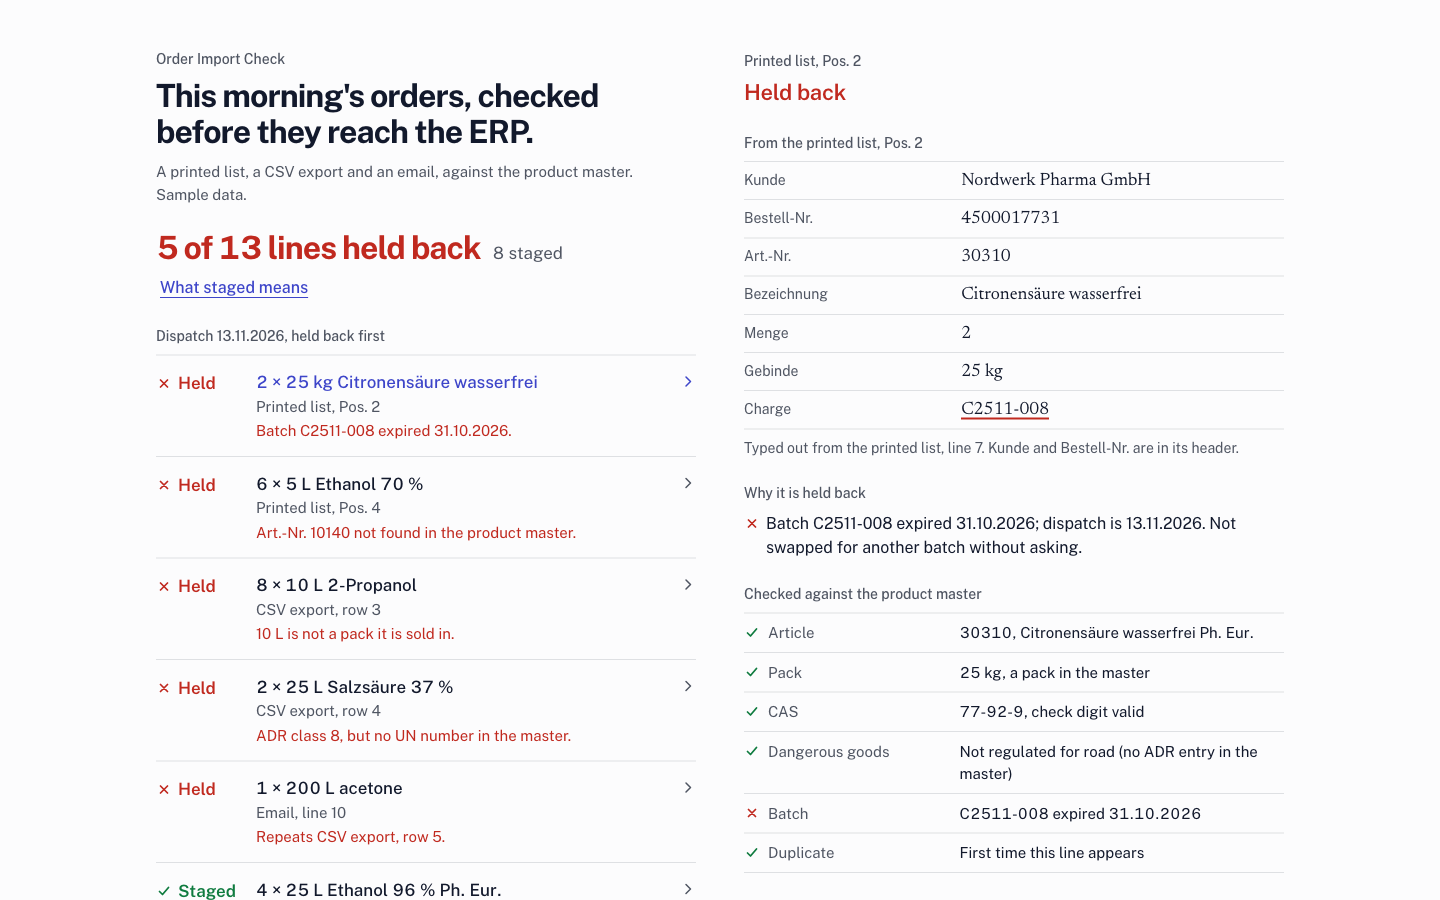
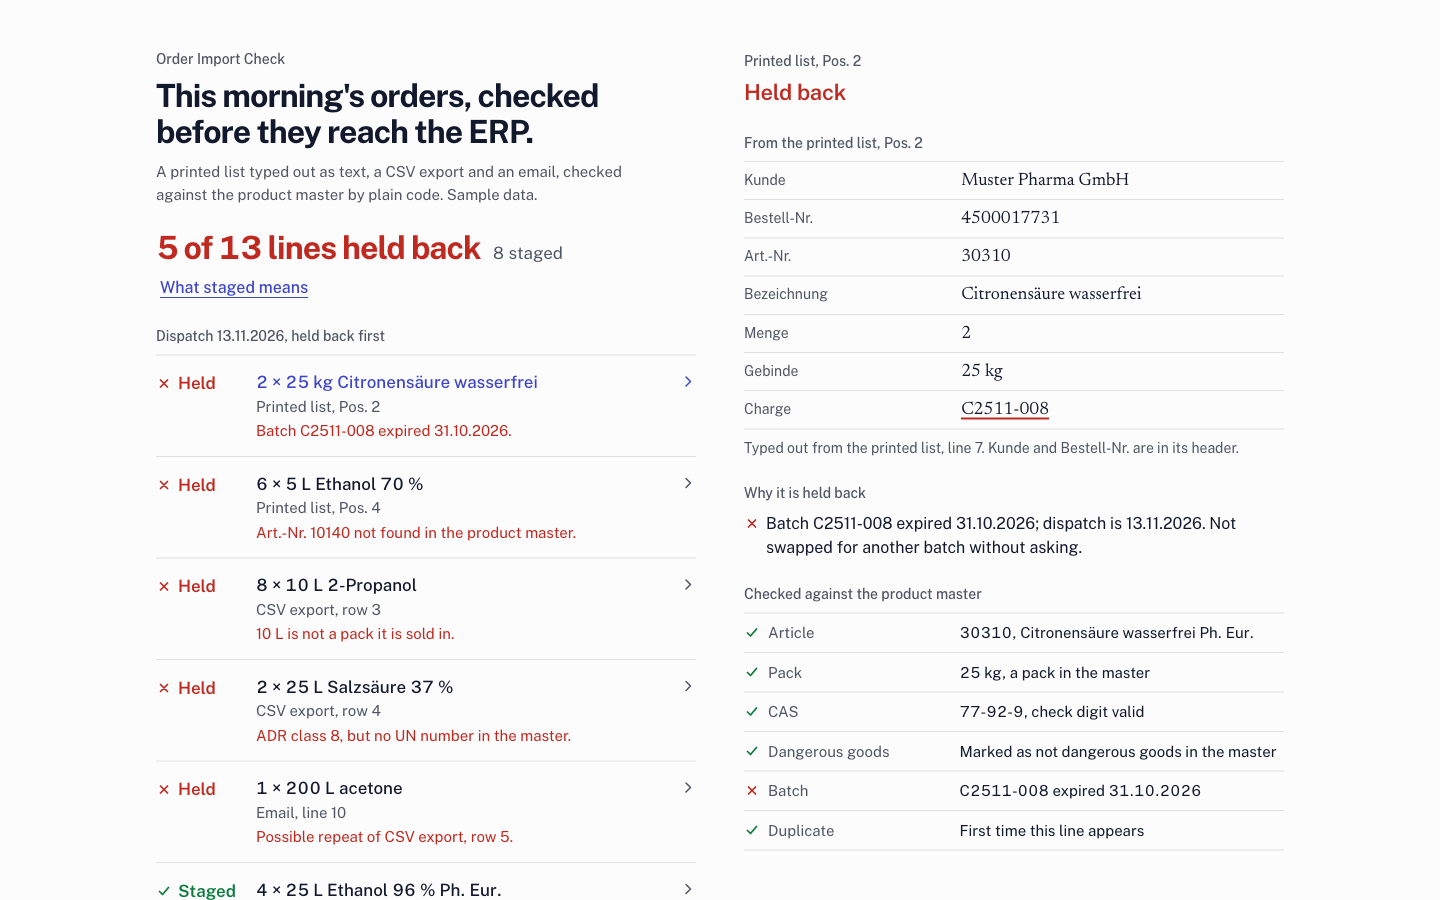
Hold missing dangerous goods status, honest ADR and FEFO notes, possible-repeat wording, rows closed on phone

diff --git a/index.html b/index.html
@@ -24,13 +24,13 @@
     <header class="top">
       <p class="mark">Order Import Check</p>
       <h1>This morning's orders, checked before they reach the ERP.</h1>
-      <p class="sub">A printed list, a CSV export and an email, against the product master. Sample data.</p>
+      <p class="sub">A printed list typed out as text, a CSV export and an email, checked against the product master by plain code. Sample data.</p>
     </header>
 
     <section class="reading" aria-labelledby="summary">
       <p class="summary" id="summary" role="status"><span class="sum-main">Checking</span></p>
       <button type="button" class="btn text why-btn" id="why-btn" aria-expanded="false" aria-controls="why">What staged means</button>
-      <p class="why-text" id="why" hidden>A line is staged when its article number is in the product master, the pack is one it is sold in, the CAS number checks out, a dangerous good has its UN number, class and packing group, the batch is in date on the dispatch day, and it is not a repeat. Anything else is held back with the reason. Nothing is guessed.</p>
+      <p class="why-text" id="why" hidden>A line is staged when its article number is in the product master, the pack is one it is sold in, the CAS number checks out, the master either carries the UN number, class and packing group or marks the article as not dangerous goods, the batch is in date on the dispatch day, and it is not a possible repeat. Anything else is held back with the reason. Nothing is guessed.</p>
       <div id="groups" class="groups"></div>
     </section>
 
@@ -72,8 +72,8 @@
     <button type="button" class="btn text terms-btn" id="terms-btn" aria-expanded="false" aria-controls="terms">Terms and sources</button>
     <div class="terms" id="terms" hidden>
       <p><b>CAS number.</b> The registry number for a substance. The last digit is a check digit; this page tests it the way <a href="https://www.cas.org/training/documentation/chemical-substances/checkdig">CAS describes</a>.</p>
-      <p><b>UN number, ADR class, packing group.</b> What a dangerous good needs on its road transport document under ADR 5.4.1.1.1, with values from ADR Table A (<a href="https://unece.org/transport/dangerous-goods">UNECE, ADR 2025</a>; plain summary from the <a href="https://www.hse.gov.uk/cdg/manual/consignment.htm">UK HSE</a>).</p>
-      <p><b>First expiry, first out (FEFO).</b> Stock leaves in order of expiry; expired stock leaves saleable stock. EU Good Distribution Practice guidelines, <a href="https://eur-lex.europa.eu/legal-content/EN/TXT/?uri=CELEX:52013XC1123(01)">2013/C 343/01</a>, section 5.5.</p>
+      <p><b>UN number, class, packing group.</b> Three of the things ADR 5.4.1.1.1 puts on the road transport document for a dangerous good. It also asks for the proper shipping name and, where one is assigned, the tunnel restriction code, as in "UN 1789 CHLORWASSERSTOFFSÄURE, 8, II, (E)". This page checks the three only. Sample values match the ADR 2025 entries in <a href="https://www.dgg.bam.de/dgginfo/search?lang=en">BAM's dangerous goods database</a>. The rule is in <a href="https://unece.org/transport/dangerous-goods">ADR 2025 (UNECE)</a>; the <a href="https://www.hse.gov.uk/cdg/manual/consignment.htm">UK HSE</a> lists the items in plain words.</p>
+      <p><b>First expiry, first out (FEFO).</b> The batch that expires soonest leaves first. EU Good Distribution Practice asks for it for medicines (<a href="https://eur-lex.europa.eu/legal-content/EN/TXT/?uri=CELEX:52013XC1123(01)">2013/C 343/01</a>, section 5.5) and for active substances (<a href="https://eur-lex.europa.eu/legal-content/EN/TXT/?uri=CELEX:52015XC0321(01)">2015/C 95/01</a>, chapter 6). Both go further than this page: stock near its expiry comes out of saleable stock, and what is picked needs an appropriate remaining shelf life. This page only checks that a batch is in date on the dispatch day.</p>
       <p><b>Art.-Nr., Gebinde, Charge.</b> German order lists: article number, pack, batch.</p>
     </div>
     <p>Built by Arnold Ikpemosi Adeyemi. Made-up customers, orders and batches. Not regulatory advice.</p>

diff --git a/samples.js b/samples.js
@@ -1,13 +1,13 @@
 // Sample data for one morning at a made-up fine chemicals distributor in Germany.
 // Customers, orders, batches and expiry dates are invented for this demo.
 // CAS numbers, UN numbers and ADR classes are the public values for these substances;
-// packing groups are the usual ones for these grades. Check your own SDS, section 14.
+// packing groups match the ADR 2025 entries for these strengths. Check your own SDS, section 14.
 
 export const dispatchDate = "2026-11-13";
 
 // A printed order list, typed out line by line as it reads on paper.
 export const printedList = `AUFTRAGSLISTE                          Druck 12.11.2026 07:12
-Kunde: Nordwerk Pharma GmbH            Bestell-Nr.: 4500017731
+Kunde: Muster Pharma GmbH              Bestell-Nr.: 4500017731
 Liefertermin: 13.11.2026
 
 Pos  Art.-Nr.  Bezeichnung                  Menge  Gebinde  Charge
@@ -42,7 +42,8 @@ Thanks and best regards
 Jana Weber
 Purchasing`;
 
-// The product master (Artikelstamm). dg is null for goods not regulated for road transport.
+// The product master (Artikelstamm). dg is false where the master marks the article as not dangerous goods.
+// A record with no dg entry at all is held: missing is not the same as safe.
 export const master = [
   {
     article: "10110", name: "Ethanol 96 % Ph. Eur.", cas: "64-17-5",
@@ -78,31 +79,31 @@ export const master = [
   {
     article: "30310", name: "Citronensäure wasserfrei Ph. Eur.", cas: "77-92-9",
     packs: [{ size: 1, unit: "kg" }, { size: 25, unit: "kg" }],
-    dg: null,
+    dg: false,
     batches: [{ batch: "C2511-008", expiry: "2026-10-31" }, { batch: "C2604-021", expiry: "2029-04-30" }],
   },
   {
     article: "30320", name: "Glycerin 99,5 % Ph. Eur.", cas: "56-81-5",
     packs: [{ size: 1, unit: "kg" }, { size: 25, unit: "kg" }, { size: 250, unit: "kg" }],
-    dg: null,
+    dg: false,
     batches: [{ batch: "G2602-019", expiry: "2027-02-28" }, { batch: "G2608-066", expiry: "2028-08-31" }],
   },
   {
     article: "30330", name: "Natriumchlorid Ph. Eur.", cas: "7647-14-5",
     packs: [{ size: 1, unit: "kg" }, { size: 25, unit: "kg" }],
-    dg: null,
+    dg: false,
     batches: [{ batch: "K2601-003", expiry: "2029-01-31" }],
   },
   {
     article: "40410", name: "Cellulose mikrokristallin Ph. Eur.", cas: "9004-34-6",
     packs: [{ size: 20, unit: "kg" }],
-    dg: null,
+    dg: false,
     batches: [{ batch: "M2512-090", expiry: "2027-12-31" }, { batch: "M2606-015", expiry: "2028-06-30" }],
   },
   {
     article: "40420", name: "Magnesiumstearat Ph. Eur.", cas: "557-04-0",
     packs: [{ size: 10, unit: "kg" }, { size: 25, unit: "kg" }],
-    dg: null,
+    dg: false,
     batches: [{ batch: "T2603-027", expiry: "2027-03-31" }],
   },
 ];

diff --git a/check.js b/check.js
@@ -93,7 +93,8 @@ export function checkLine(line, master, { dispatchDate }) {
     }
   }
 
-  // 5. Dangerous goods need UN number, class and packing group for the transport document (ADR 5.4.1.1.1).
+  // 5. Dangerous goods. The master must say one of two things: the ADR entry, or that the article is not
+  // dangerous goods (dg: false). A record that says neither is held. Missing is not the same as safe.
   if (item) {
     if (item.dg) {
       const miss = [];
@@ -107,8 +108,11 @@ export function checkLine(line, master, { dispatchDate }) {
       } else {
         checks.push({ key: "dg", state: "pass", label: "Dangerous goods", text: `UN ${item.dg.un}, class ${item.dg.adrClass}, PG ${item.dg.packingGroup}` });
       }
+    } else if (item.dg === false) {
+      checks.push({ key: "dg", state: "pass", label: "Dangerous goods", text: "Marked as not dangerous goods in the master" });
     } else {
-      checks.push({ key: "dg", state: "pass", label: "Dangerous goods", text: "Not regulated for road (no ADR entry in the master)" });
+      hold("dg_unknown", `The product master does not say whether this article is dangerous goods. Not assumed safe.`, null);
+      checks.push({ key: "dg", state: "fail", label: "Dangerous goods", text: `Status ${NOT_FOUND} in the product master` });
     }
   }
 
@@ -177,10 +181,10 @@ export function checkMorning(morning, master, { dispatchDate }) {
     if (first) {
       r.reasons.push({
         code: "duplicate",
-        text: `Same PO, article, quantity and pack as ${SOURCES[first.source]}, ${first.loc}. Held so it is not imported twice.`,
+        text: `Same PO, article, quantity and pack as ${SOURCES[first.source]}, ${first.loc}. It could be a repeat or a second order. Held for a person to say which.`,
         mark: "article",
       });
-      r.checks.push({ key: "dup", state: "fail", label: "Duplicate", text: `Repeats ${SOURCES[first.source]}, ${first.loc}` });
+      r.checks.push({ key: "dup", state: "fail", label: "Duplicate", text: `Same as ${SOURCES[first.source]}, ${first.loc}` });
       r.duplicateOf = first.id;
     } else {
       seen.set(key, line);

diff --git a/app.js b/app.js
@@ -228,7 +228,7 @@ function shortReason(r) {
     }
     case "duplicate": {
       const first = state.results.find((y) => y.line.id === r.duplicateOf)?.line;
-      return first ? `Repeats ${SOURCES[first.source]}, ${first.loc.split(",")[0].toLowerCase()}.` : "Repeats an earlier line.";
+      return first ? `Possible repeat of ${SOURCES[first.source]}, ${first.loc.split(",")[0].toLowerCase()}.` : "Possible repeat of an earlier line.";
     }
     default: return x.text;
   }
@@ -345,7 +345,7 @@ function render({ fresh = false, focusId = null } = {}) {
 
   let li = rows.children[0];
   if (focusId) li = [...rows.children].find((x) => x._entry.id === focusId) || li;
-  if (li) {
+  if (li && (wide.matches || focusId)) {
     show(li._entry, Boolean(focusId));
     if (focusId) li.scrollIntoView({ block: "start", behavior: calm() ? "auto" : "smooth" });
   }

diff --git a/check.test.js b/check.test.js
@@ -109,6 +109,16 @@ test("filling in the UN number lets the acid through", () => {
   assert.deepEqual(summarize(results), { total: 13, held: 4, staged: 9 });
 });
 
+test("an article whose dangerous goods status is missing is held, not assumed safe", () => {
+  const master = clone(S.master);
+  delete master.find((m) => m.article === "20220").dg;
+  const { results } = run({ master });
+  const r = results.find((x) => x.line.id === "csv-4");
+  assert.equal(r.status, "held");
+  assert.deepEqual(r.reasons.map((x) => x.code), ["dg_unknown"]);
+  assert.equal(results.find((x) => x.line.id === "printed-3").status, "staged"); // dg: false still passes
+});
+
 test("a CAS number on the order that disagrees with the master is held", () => {
   const csv = S.csvExport.replace("67-64-1", "67-64-2");
   const { results } = run({ csvExport: csv });

diff --git a/README.md b/README.md
@@ -11,11 +11,11 @@ A line is staged only when all of these hold:
 1. **The article number is in the product master.** It is never matched by name. "Ethanol 70 %" with an unknown article number stays unknown.
 2. **The pack is one the article is sold in.** 10 L of an article sold in 1, 5, 25 and 200 L is held. Nobody turns it into something else.
 3. **The CAS number checks out.** The master's CAS number passes its check digit, and a CAS number on the order matches the master.
-4. **A dangerous good has its transport fields.** UN number, ADR class and packing group must be in the master, because the road transport document needs them.
+4. **The dangerous goods status is settled.** The master either carries the UN number, ADR class and packing group, or marks the article as not dangerous goods. A record that says neither is held. Missing is not the same as safe.
 5. **The batch is in date on the dispatch day.** A batch the customer asked for must exist and not be expired. It is not swapped for another batch without asking. With no batch requested, the page proposes the in-date batch that expires first.
-6. **It is not a repeat.** Same customer, purchase order, article, quantity and pack as an earlier line, for example a line that is in the CSV and again in the email.
+6. **It is not a possible repeat.** A line with the same customer, purchase order, article, quantity and pack as an earlier one is held, for example a line in the CSV and again in the email. The code cannot tell a repeat from a second order, so a person decides.
 
-The five held in the sample: an expired requested batch, an unknown article number, a pack size not sold, a hazardous acid with no UN number in the master, and a repeated line.
+The five held in the sample: an expired requested batch, an unknown article number, a pack size not sold, a hazardous acid with no UN number in the master, and a possible repeat.
 
 ## Every field has a source
 
@@ -28,8 +28,8 @@ Press "Fill in UN 1789 for me" to complete the acid's master record and watch th
 ## Terms
 
 - **CAS number**: registry number of a substance. The last digit is a check digit, tested as described by CAS: https://www.cas.org/training/documentation/chemical-substances/checkdig
-- **UN number, ADR class, packing group**: particulars a dangerous goods transport document needs under ADR 5.4.1.1.1, with values from ADR Table A. UNECE: https://unece.org/transport/dangerous-goods. Plain summary from the UK HSE: https://www.hse.gov.uk/cdg/manual/consignment.htm
-- **First expiry, first out (FEFO)**: stock leaves in order of expiry, and expired stock is removed from saleable stock. EU Good Distribution Practice guidelines 2013/C 343/01, section 5.5: https://eur-lex.europa.eu/legal-content/EN/TXT/?uri=CELEX:52013XC1123(01)
+- **UN number, ADR class, packing group**: three of the particulars ADR 5.4.1.1.1 requires on the transport document for a dangerous good. It also requires the proper shipping name and, where assigned, the tunnel restriction code, for example `UN 1789 CHLORWASSERSTOFFSÄURE, 8, II, (E)`. This demo checks the three only. The sample values match the ADR 2025 entries in BAM's Datenbank GEFAHRGUT, checked on 13 Nov 2026: https://www.dgg.bam.de/dgginfo/search?lang=en. The rule: ADR 2025, UNECE, https://unece.org/transport/dangerous-goods. The items in plain words, UK HSE: https://www.hse.gov.uk/cdg/manual/consignment.htm
+- **First expiry, first out (FEFO)**: the batch that expires soonest leaves first. EU Good Distribution Practice asks for it for medicines (2013/C 343/01, section 5.5: https://eur-lex.europa.eu/legal-content/EN/TXT/?uri=CELEX:52013XC1123(01)) and for active substances (2015/C 95/01, chapter 6: https://eur-lex.europa.eu/legal-content/EN/TXT/?uri=CELEX:52015XC0321(01)). Both go further than this demo. Section 5.5 takes stock that is near its expiry out of saleable stock, and section 5.7 expects an appropriate remaining shelf life at picking. This demo only checks that a batch is in date on the dispatch day.
 - **Art.-Nr., Bezeichnung, Menge, Gebinde, Charge**: the German column names on the order list: article number, description, quantity, pack, batch.
 
 ## Where a model would go
@@ -56,8 +56,12 @@ Then open http://localhost:8786. The page makes no network calls beyond its own 
 
 - It reads typed text. A scanned list would need OCR first, and OCR output would need its own check.
 - The email reader expects lines shaped "2 x 25 kg name, art. 12345". Anything item-like that does not fit is held as unread, not guessed.
-- No stock levels, prices, customer-specific minimum shelf life, or segregation of incompatible dangerous goods.
-- CAS numbers, UN numbers and ADR classes are the public values for these substances. Packing groups are the usual ones for these grades; a real master takes them from each supplier's SDS, section 14.
+- No stock levels or prices, and no segregation of incompatible dangerous goods.
+- No minimum remaining shelf life. A batch that expires the day after dispatch passes, and first expiry, first out picks it first. A real master carries a minimum per article or per customer (Mindestrestlaufzeit).
+- The dispatch day (13.11.2026) is a setting in the sample. It is not read from the Liefertermin on the list, which is the delivery date.
+- Batches sit inside each article record here. An ERP keeps them in a batch master, with stock.
+- No limited-quantity or small-load rules (ADR 3.4 and 1.1.3.6). Six 1 L bottles of ethanol can travel as limited quantities, where the transport document rule does not apply. The demo does not know that.
+- CAS numbers, UN numbers, classes and packing groups match the public ADR 2025 entries for these substances at these strengths (BAM database, 13 Nov 2026). Hydrochloric acid and sodium hydroxide solution also have a packing group III entry for weaker solutions, so a real master takes the group from each supplier's SDS, section 14.
 - The import format is a generic semicolon CSV. A real ERP has its own import format.
 
 ## Design
